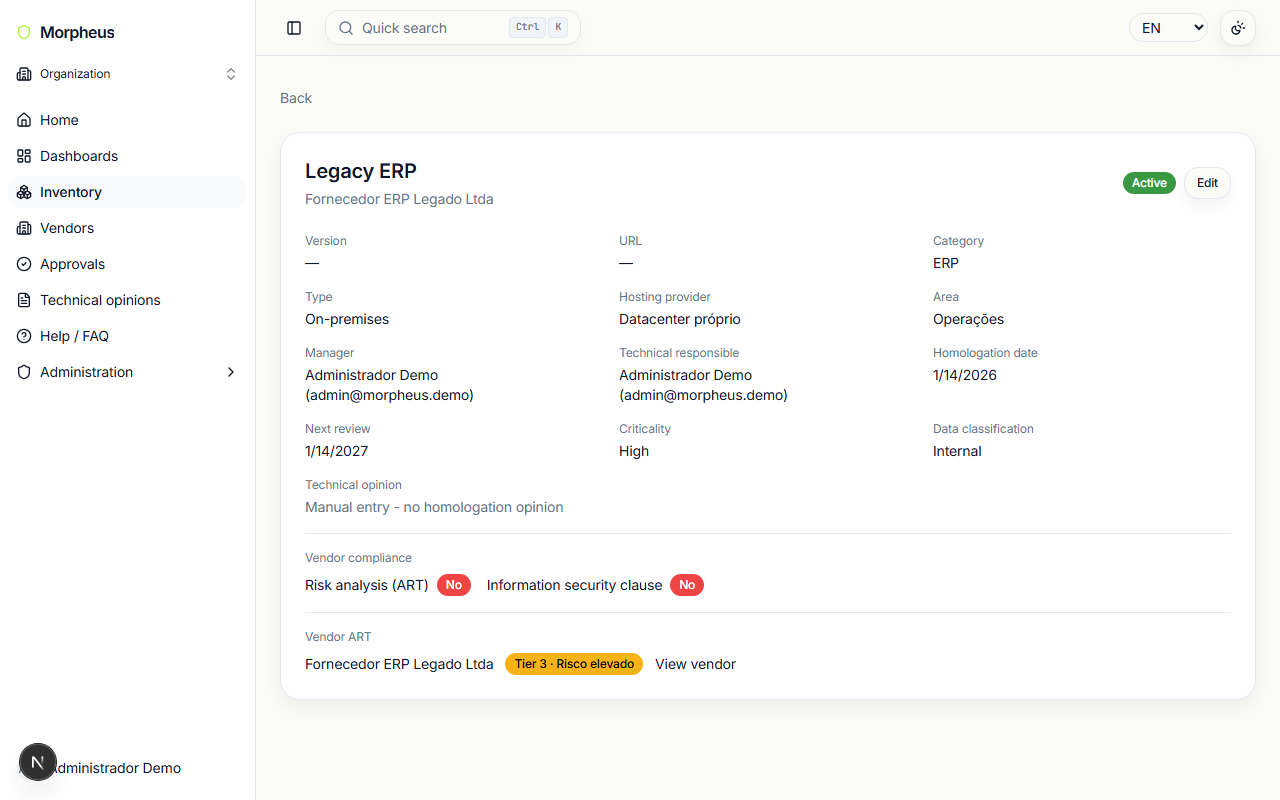
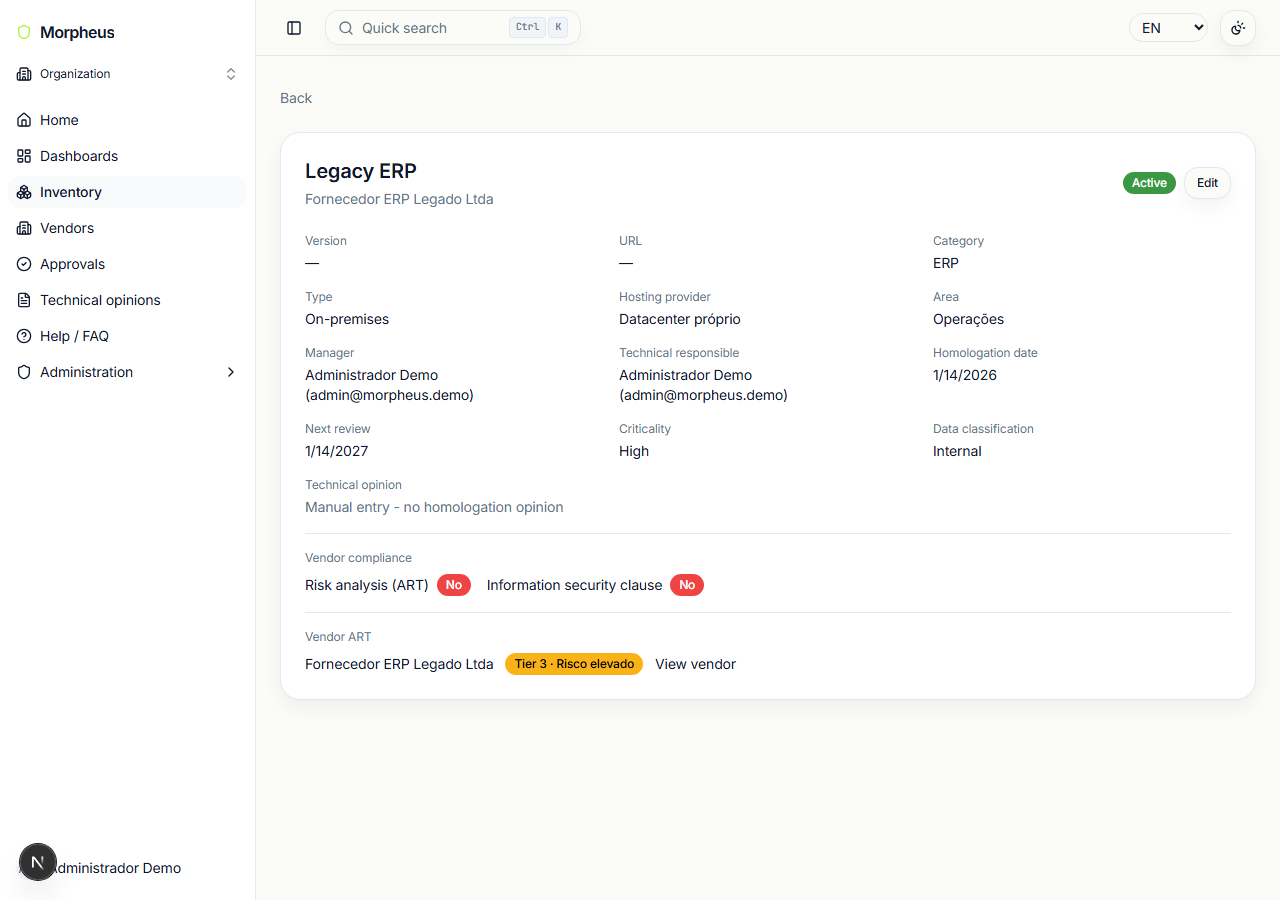
docs(portfolio): audita e corrige README/architecture.md pós-fornecedores
O usuário revisou o portfólio com mais rigor e apontou gaps reais que
a fase anterior deixou passar:
- A entidade Vendor nunca teve print de verdade (lista/detalhe com
  tier) em nenhum idioma - adicionados à galeria principal.
- 14 screenshots pré-existentes mostravam a sidebar sem o item
  "Fornecedores"/"Vendors" (capturados antes do PR #86) - todos
  regenerados, e os 2 da fase anterior padronizados pro viewport
  1280x900 do resto do repo.
- docs/architecture.md dizia "36 modelos" (hoje são 46) e não tinha
  nenhuma entidade Vendor* nos diagramas ER - nova seção "Fornecedores
  e tierização" + as duas FKs novas (Assessment.vendorId,
  SoftwareInventoryItem.vendorId) adicionadas aos diagramas existentes.

Também removido um rascunho de avaliação de teste ("sss") esquecido
no banco que estava aparecendo nos screenshots do dashboard.

diff --git a/docs/CHANGELOG.md b/docs/CHANGELOG.md
@@ -2280,5 +2280,32 @@ Com a Fase 6, as 6 fases do plano de renovação anual de homologação estão c
     (metodologia)" mencionando que a ART agora também é acessível/iniciável a partir do Inventory, e
     uma nova tabela de screenshots logo abaixo - mesmo padrão da tabela já existente ali pra
     matriz de risco.
+- **Auditoria de portfólio pós-feature de fornecedores (2026-07-30).** O usuário revisou a Fase 4
+  acima com mais rigor e apontou 3 problemas reais que a fase anterior deixou passar - portfólio é
+  tratado como material de venda do projeto, não um anexo qualquer:
+  - **A entidade `Vendor` nunca teve print de verdade** (lista/detalhe com tier), em nenhum idioma -
+    a feature original (Fases 1-5) explicitamente pulou screenshots. Novos: `vendors-lista{,-en}.png`
+    e `vendors-detalhe{,-en}.png` (Atlassian, Tier 1) adicionados à galeria principal ("Telas"/
+    "Screenshots") do `README.md`, PT-BR+EN.
+  - **14 screenshots pré-existentes estavam desatualizados** - todos os que mostram a sidebar
+    (`dashboard-{minha-visao,administrativo,executivo,placar-por-area}`, `busca-rapida`,
+    `admin-papeis`, `risk-matrix-config`, PT-BR+EN) foram capturados antes do PR #86 (Fase 4 da
+    feature de fornecedores) e não tinham "Fornecedores"/"Vendors" no menu. Todos regenerados. De
+    quebra, também padronizados os 2 screenshots da Fase 4 anterior
+    (`inventory-item-art`/`vendors-acompanhamento`, que tinham viewport 1280×800 em vez do padrão
+    1280×900 do resto do repositório) e removido um rascunho de avaliação de teste ("sss") esquecido
+    no banco que estava poluindo o dashboard "Minha visão" nos prints novos.
+  - **`docs/architecture.md` estava desatualizado**: dizia "36 modelos" (hoje são 46), e os diagramas
+    ER não tinham nenhuma entidade `Vendor*` nem as FKs novas (`Assessment.vendorId`,
+    `SoftwareInventoryItem.vendorId`). Nova seção "Fornecedores e tierização" com o diagrama ER
+    completo dos 9 modelos (`Vendor`, `VendorQuestionCategory/Question/Option`,
+    `VendorTierConfig/Threshold`, `VendorAssessment`, `VendorAnswer/Option`), e as duas FKs
+    adicionadas aos diagramas de "Avaliação e workflow" e "Pós-aprovação". `docs/DEVELOPMENT.md` e
+    `docs/security.md` foram checados e confirmados como não afetados (escopo deles é setup/processo,
+    não narrativa de feature - essa vive só no `CHANGELOG.md`).
+  - **Como aplicar daqui pra frente**: qualquer mudança de UX com impacto moderado ou maior (nova
+    entidade no menu principal, nova tela, fluxo novo) exige revisar TODO o portfólio afetado antes
+    de considerar a fase terminada - não só adicionar o print da mudança em si, mas checar se ela
+    invalida prints/documentação já existentes.
 
 

diff --git a/README.md b/README.md
@@ -112,6 +112,10 @@ Processo completo (camadas de risco, histórico de cada janela) em
 | --- | --- |
 | ![Login - seleção de organização](./docs/screenshots/login-organizacao.png) | ![Busca rápida](./docs/screenshots/busca-rapida.png) |
 
+| Fornecedores - lista com tierização | Fornecedores - detalhe |
+| --- | --- |
+| ![Fornecedores - lista](./docs/screenshots/vendors-lista.png) | ![Fornecedores - detalhe](./docs/screenshots/vendors-detalhe.png) |
+
 | Administração - gestão de papéis |
 | --- |
 | ![Administração - papéis](./docs/screenshots/admin-papeis.png) |
@@ -281,6 +285,10 @@ Full process (risk tiers, per-window history) in [`docs/security.md`](./docs/sec
 | Login - organization picker | Quick search (Cmd/Ctrl+K) |
 | --- | --- |
 | ![Login - organization picker](./docs/screenshots/login-organizacao-en.png) | ![Quick search](./docs/screenshots/busca-rapida-en.png) |
+
+| Vendors - list with tiering | Vendors - detail |
+| --- | --- |
+| ![Vendors - list](./docs/screenshots/vendors-lista-en.png) | ![Vendors - detail](./docs/screenshots/vendors-detalhe-en.png) |
 
 | Admin - role management |
 | --- |
